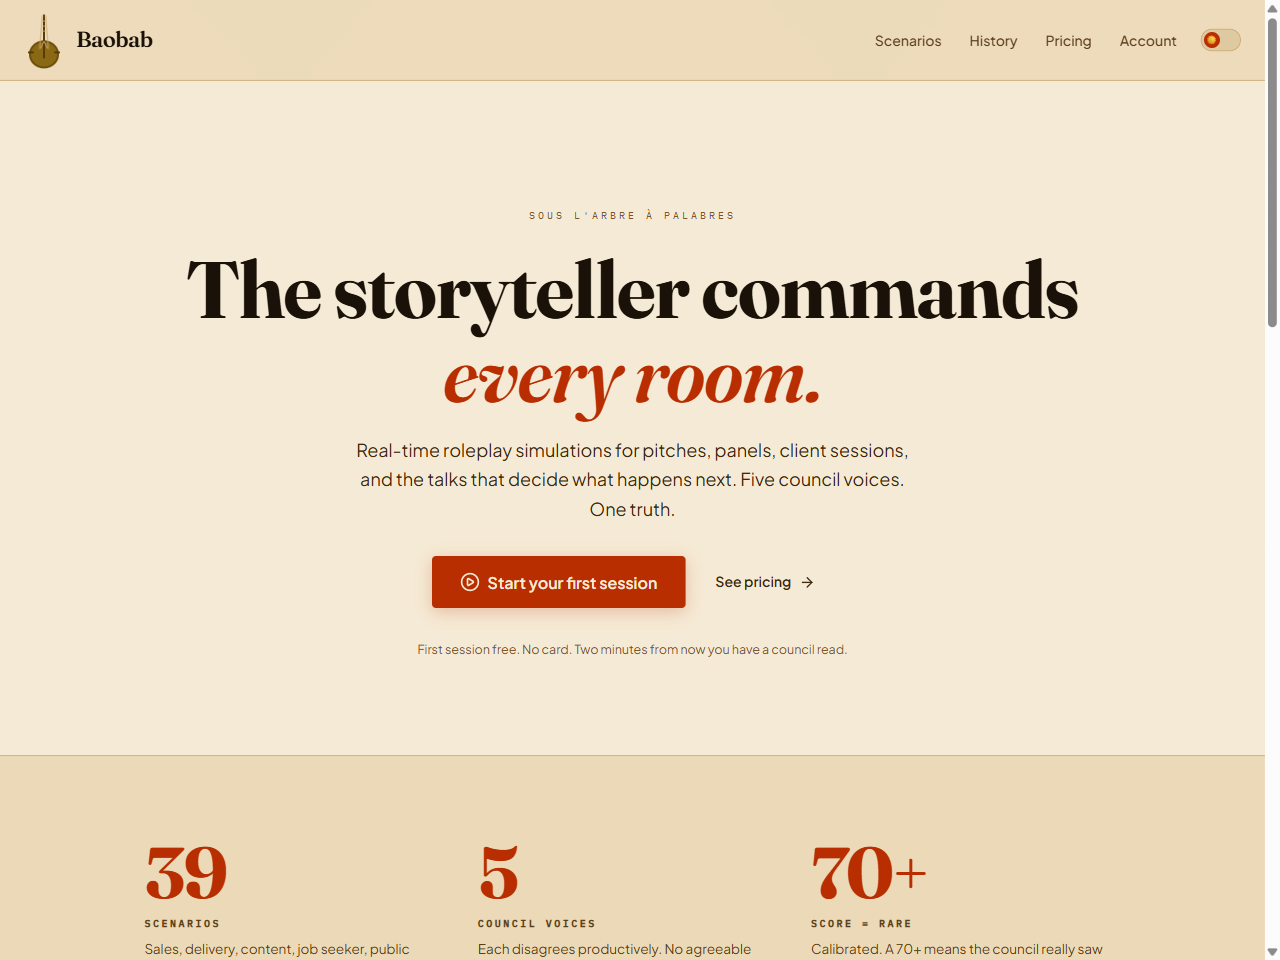
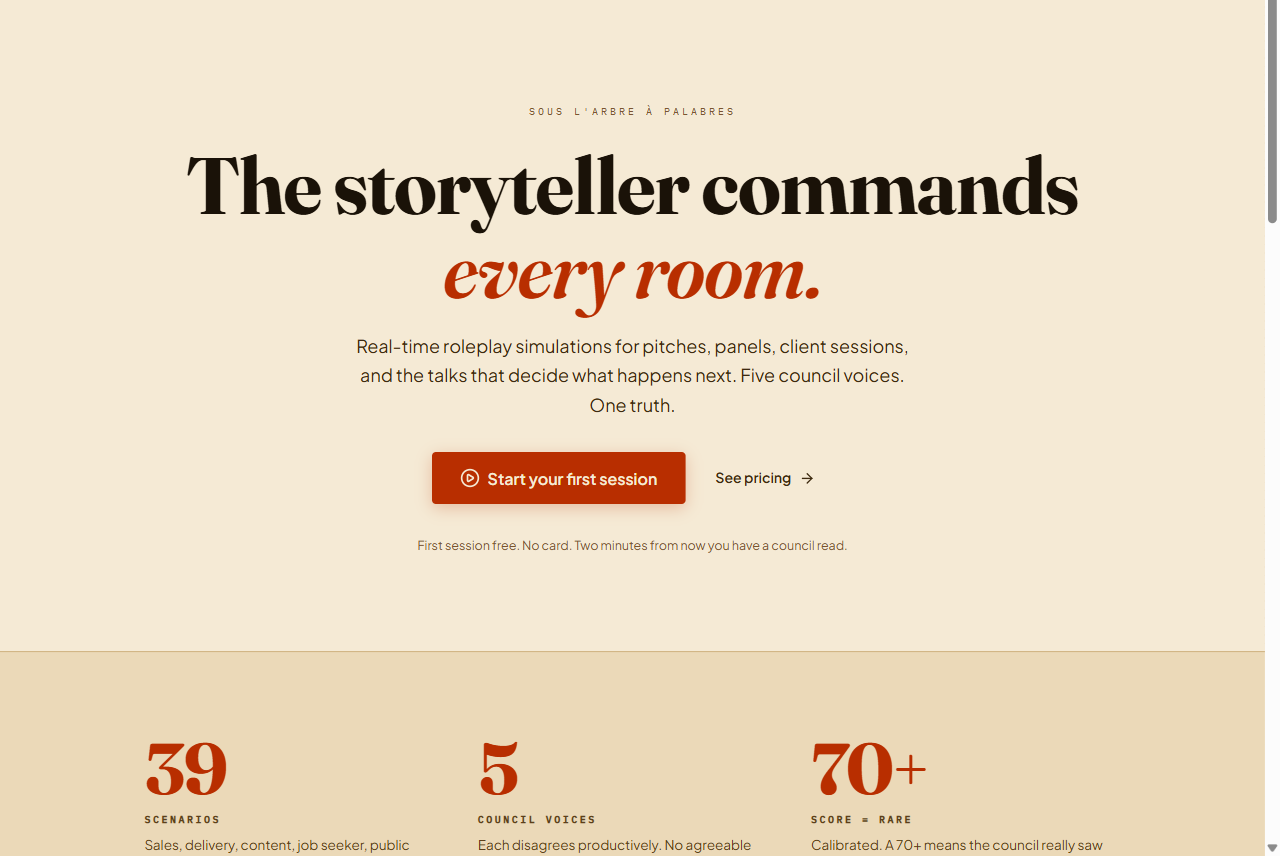
feat(portfolio): ship checklist passed, two real copy defects fixed [READY]
Completes the PRD section 14 ship checklist. Voice composite 94/100, CTA 7.75/10.

Two defects the checklist caught and this commit fixes:

1. An internal codename was rendered INSIDE a public image. The practice-app
   screenshot carried the 'Baobab' wordmark in the app header at readable size.
   The page TEXT was clean, so a copy scan could never have caught it. Fixed by
   cropping the header band off the real screenshot, which keeps the genuine app
   hero and removes the wordmark. Asset filename already sanitized in the prior
   commit so the codename is absent from the public URL too.

2. An implied current-client claim the PRD had not flagged. Section 8.4 named
   only A1's clause. A3 also ended 'the same build-with-you approach I bring to
   one-on-one client work', present tense, which violates N6. Sentence cut.
   A4's 'for a client' moved to the same conditional shape as A1's approved fix.

Five visual issues found by the two-viewport look and fixed: nav column not
aligned to the content column, an anemic jump-nav, the third HR card orphaned in
a 2-up grid, HR plates too dark to carry their figures (the exact 'one polished
half and one bare half' outcome 8.4 forbids), and a mid-sentence emphasis span
in H2's plate that read as a typo.

Verified, not assumed: canonical profile read in full; all 5 pages carry exactly
one Portfolio entry in BOTH nav surfaces; a real click from the deepest page
[…]

diff --git a/portfolio/index.html b/portfolio/index.html
@@ -86,7 +86,9 @@
     -webkit-backdrop-filter: blur(16px) saturate(1.4);
     border-bottom-color: var(--line-2);
   }
-  .nav-inner { max-width: 1320px; margin: 0 auto; display: flex; align-items: center; justify-content: space-between; gap: 24px; }
+  /* 1080 rather than the homepage's 1320 so the nav lines up with this page's
+     content column. A nav that starts left of the masthead reads as a seam. */
+  .nav-inner { max-width: 1080px; margin: 0 auto; display: flex; align-items: center; justify-content: space-between; gap: 24px; }
   .brand { display: inline-flex; align-items: center; gap: 12px; font-weight: 700; letter-spacing: -0.01em; font-size: 16px; color: var(--paper); }
   .brand img { width: 32px; height: 32px; border-radius: 50%; }
   .brand .accent { color: var(--amber); }
@@ -179,20 +181,26 @@
     scrollbar-width: none;
   }
   .jump-inner::-webkit-scrollbar { display: none; }
-  .jump a {
+  .jump-label {
     font-family: var(--mono); font-size: 11px;
+    letter-spacing: 0.18em; text-transform: uppercase;
+    color: var(--t-dim); padding-right: 22px; white-space: nowrap;
+  }
+  .jump a {
+    font-family: var(--mono); font-size: 12.5px;
     letter-spacing: 0.14em; text-transform: uppercase;
-    color: var(--t-muted); padding: 15px 20px 13px;
+    color: var(--t-muted); padding: 17px 22px 15px;
     border-bottom: 2px solid transparent;
     white-space: nowrap;
     transition: color 180ms, border-color 180ms;
   }
-  .jump a:first-child { padding-left: 0; }
   .jump a:hover { color: var(--paper); }
   .jump a.is-active { color: var(--amber); border-bottom-color: var(--amber); }
   @media (max-width: 760px) {
     .jump-inner { padding: 0 20px; }
-    .jump a { padding: 13px 14px 11px; font-size: 10px; letter-spacing: 0.1em; }
+    .jump-label { display: none; }
+    .jump a { padding: 14px 16px 12px; font-size: 11px; letter-spacing: 0.1em; }
+    .jump a:first-of-type { padding-left: 0; }
   }
 
   /* SECTIONS */
@@ -212,7 +220,11 @@
 
   /* CARDS */
   .cards { display: grid; grid-template-columns: repeat(2, 1fr); gap: 24px; }
-  @media (max-width: 860px) { .cards { grid-template-columns: 1fr; } }
+  /* The HR half is three cards. In a 2-up grid the third sits alone and the
+     section reads as unfinished, so it gets its own 3-up track. */
+  .cards.cards-3 { grid-template-columns: repeat(3, 1fr); gap: 20px; }
+  @media (max-width: 1000px) { .cards.cards-3 { grid-template-columns: repeat(2, 1fr); gap: 24px; } }
+  @media (max-width: 860px) { .cards, .cards.cards-3 { grid-template-columns: 1fr; } }
 
   .card {
     background: linear-gradient(180deg, rgba(22,29,39,0.72) 0%, rgba(15,20,28,0.9) 100%);
@@ -233,30 +245,35 @@
     aspect-ratio: 4 / 3;
     border-bottom: 1px solid var(--line-2);
     background:
-      radial-gradient(ellipse at 30% 20%, rgba(232,166,107,0.13), transparent 62%),
-      linear-gradient(180deg, var(--ink-3) 0%, var(--ink-2) 100%);
+      radial-gradient(ellipse at 28% 12%, rgba(232,166,107,0.22), transparent 66%),
+      linear-gradient(180deg, #1B2331 0%, var(--ink-2) 100%);
     display: flex; flex-direction: column; justify-content: center;
-    padding: 28px 26px;
+    padding: 26px 24px;
     position: relative;
   }
   .card-plate::after {
     content: '';
-    position: absolute; inset: 18px;
-    border: 1px solid var(--line-2);
+    position: absolute; inset: 14px;
+    border: 1px solid rgba(245,239,226,0.1);
     border-radius: 10px;
     pointer-events: none;
   }
   .card-plate .plate-kicker {
-    font-family: var(--mono); font-size: 10.5px;
+    font-family: var(--mono); font-size: 10px;
     letter-spacing: 0.2em; text-transform: uppercase;
-    color: var(--amber); margin-bottom: 14px;
+    color: var(--amber); margin-bottom: 16px;
   }
   .card-plate .plate-line {
-    font-family: var(--mono); font-size: 13px;
-    line-height: 1.7; color: var(--t-mid);
+    font-family: var(--mono); font-size: 13.5px;
+    line-height: 1.72; color: var(--t-muted);
     letter-spacing: 0.01em;
   }
-  .card-plate .plate-line span { color: var(--paper); }
+  /* The figure itself, the part the eye should land on. */
+  .card-plate .plate-line span {
+    color: var(--paper); font-size: 17px; font-weight: 500;
+    letter-spacing: -0.01em;
+  }
+  .card-plate .plate-line .arrow { color: var(--amber); font-size: 15px; }
 
   .card-body { padding: 24px 26px 28px; display: flex; flex-direction: column; gap: 12px; flex: 1; }
   .card h3 {
@@ -285,6 +302,8 @@
 
   /* CTA */
   .cta { padding: 76px 0 96px; }
+  .cta .wrap { border-top: 1px solid var(--line-2); padding-top: 56px; }
+  @media (max-width: 760px) { .cta .wrap { padding-top: 44px; } }
   .cta p {
     font-family: var(--serif);
     font-size: clamp(20px, 2.6vw, 27px);
@@ -358,6 +377,7 @@
 
 <div class="jump" id="jump">
   <div class="jump-inner">
+    <span class="jump-label">Jump to</span>
     <a href="#ai" data-jump="ai">AI</a>
     <a href="#hr" data-jump="hr">HR</a>
     <a href="#converge" data-jump="converge">How they meet</a>
@@ -416,12 +436,12 @@
     <div class="wrap">
       <div class="section-label">02 &middot; Done</div>
       <h2>What I did in HR</h2>
-      <div class="cards">
+      <div class="cards cards-3">
 
         <article class="card">
           <div class="card-plate">
             <div class="plate-kicker">Inside the company</div>
-            <div class="plate-line">Reporting process<br><span>6 to 8 hours by hand</span><br>&darr;<br><span>a 10 minute workflow</span></div>
+            <div class="plate-line">Reporting process<br><span>6 to 8 hours by hand</span><br><span class="arrow">&darr;</span><br><span>a 10 minute workflow</span></div>
           </div>
           <div class="card-body">
             <h3>An AI-enabled HR dashboard, built inside a Fortune 100 HR function</h3>
@@ -433,7 +453,7 @@
         <article class="card">
           <div class="card-plate">
             <div class="plate-kicker">Inside the company</div>
-            <div class="plate-line">A global HR skills initiative<br>run inside an enterprise<br>HR transformation, while the<br>business <span>split into three</span></div>
+            <div class="plate-line">HR roles changing<br>underneath people<br><span class="arrow">&darr;</span><br><span>a global skills initiative</span><br>while the business split into three</div>
           </div>
           <div class="card-body">
             <h3>A global HR skills initiative inside an enterprise transformation</h3>
@@ -445,7 +465,7 @@
         <article class="card">
           <div class="card-plate">
             <div class="plate-kicker">Inside the company</div>
-            <div class="plate-line">Average time to fill<br><span>around 60 days</span><br>&darr;<br><span>under 30</span><br>on the part we finished</div>
+            <div class="plate-line">Average time to fill<br><span>around 60 days</span><br><span class="arrow">&darr;</span><br><span>under 30</span><br>on the part we finished</div>
           </div>
           <div class="card-body">
             <h3>A hiring process rebuilt from the inside</h3>
